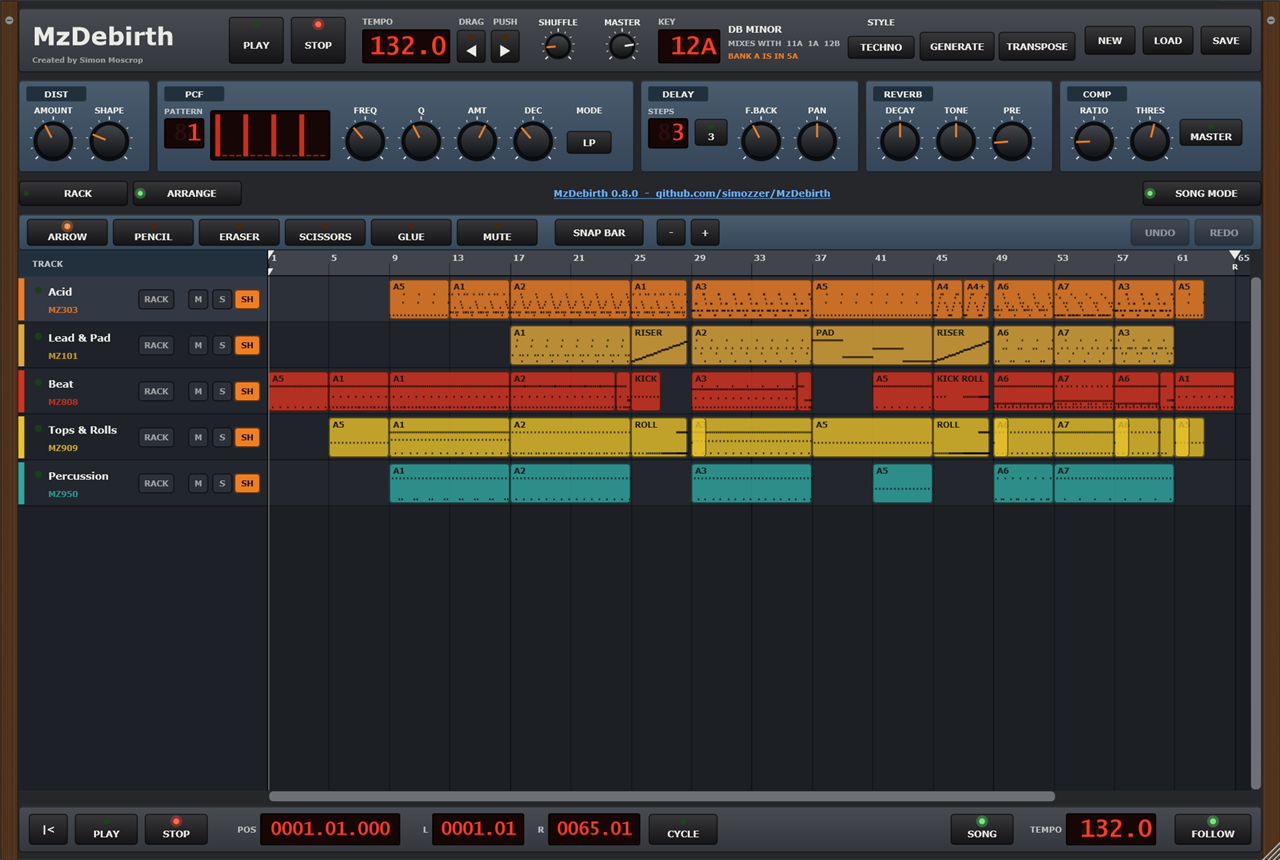
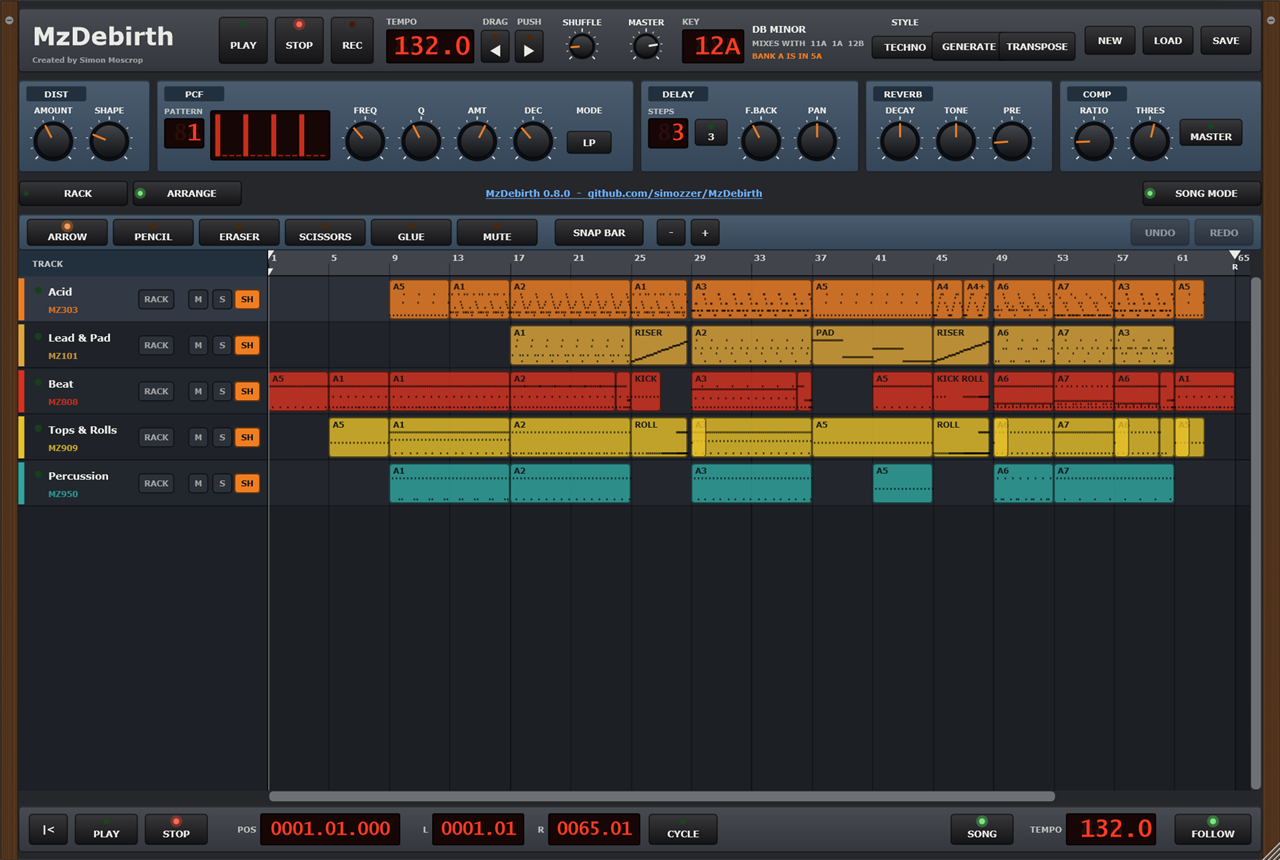
README: recording a song in its own section, and new screenshots
The take, patterns played over the song, and overdubbing together under
"Recording a song"; REC, STOP and the song position in Getting started;
the Arrange transport's STOP and REC; what the check covers. The
screenshots show REC, the song position and each machine's STOP.

Changed region(s): [[0.1562, 0.0, 0.7812, 0.0907], [0.375, 0.2116, 0.6562, 0.2419]]

diff --git a/README.md b/README.md
@@ -4,7 +4,8 @@ A rack of the Mz synths, played from a step sequencer, in the spirit of the old 
 RB-338: five machines, each with its own panel, its own patterns and a channel on the mixer,
 all on one clock, with ReBirth's effects units and a reverb along the top. And beside the
 rack, an [Arrange window](#the-arrange-window) after Cubase on the Atari ST, to lay the
-patterns out as a song and write parts of any length.
+patterns out as a song and write parts of any length - or [record](#recording-a-song) the
+rack into it as you play, as ReBirth did.
 
 ![The rack: the transport and KEY section; the DIST, PCF, DELAY, REVERB and COMP units; the RACK and ARRANGE tabs and the link to the project page; the Mz303 and the Mz101, each with its pattern section and mixer strip](docs/img/rack.png)
 
@@ -52,10 +53,11 @@ but not yet tried on a real one. If something doesn't work, please
 - **The window**: drag it wider and everything grows with it; drag it taller (from 800
   pixels) and you see more of the rack at once, or more of the song. It opens at the size
   it was left.
-- **PLAY**, or the space bar. A new rack opens on the **demo song** - an acid rave tune made
-  from the factory grooves, two minutes of intro, builds, drops and a breakdown - in the
-  Arrange window. Turn **SONG MODE** off and every machine plays its own pattern, A1 to
-  start with.
+- **PLAY**, or the space bar, plays and **STOP** stops. A new rack opens on the **demo
+  song** - an acid rave tune made from the factory grooves, two minutes of intro, builds,
+  drops and a breakdown - in the Arrange window. Turn **SONG MODE** off and every machine
+  plays its own pattern, A1 to start with. **REC**, beside them, records the rack into the
+  song - see [Recording a song](#recording-a-song).
 - Pick another pattern on each machine's **PATTERN** pads - bank A to D, then 1 to 8. Picked
   while playing, it blinks, and starts when the pattern playing comes round. The factory
   banks are written so that pattern *n* of every machine plays with pattern *n* of the others:
@@ -73,6 +75,8 @@ but not yet tried on a real one. If something doesn't work, please
   `.mzdebirth` files. The app also remembers where it was left.
 - **RACK** and **ARRANGE** (or F1 and F2), under the effects, switch between the rack and
   the Arrange window, where the patterns become a song - see below.
+- In the rack, the display beside **SONG MODE** shows where the song is, in bars, beats and
+  ticks: where it's playing, how far a recording has got, or the cursor.
 - The link between the tabs shows the version you have; click it for the project page,
   where the next version, what's new in it and the issue tracker are.
 
@@ -98,7 +102,8 @@ the 101's both the lead and the risers and pad, which take turns.
   PLAY in the Arrange window turns it on.
 - **Getting started:** right-click a track's lane and *Insert a pattern* from the rack. It
   becomes a part that plays exactly as the pattern did - slides, accents, ties and shuffle
-  and all - so the factory grooves, GENERATE and TRANSPOSE all feed the song.
+  and all - so the factory grooves, GENERATE and TRANSPOSE all feed the song. Or play the
+  rack into the song live - see [Recording a song](#recording-a-song).
 - **The toolbox** is along the top, and on the right mouse button as on the ST:
   - **ARROW** picks, moves (to another track of the same kind too), copies with Alt-drag, and
     resizes by the right edge. As with a clip in Ableton Live, a part dragged longer repeats
@@ -117,10 +122,11 @@ the 101's both the lead and the risers and pad, which take turns.
 - **The ruler:** click to move the cursor (and the song, while it plays). Drag the **L** and
   **R** flags for the locators, or shift-drag to set both. Double-click to turn the cycle
   on or off.
-- **The transport** along the bottom: back to the start, PLAY from the cursor, STOP, the
-  position in bars, beats and ticks, the locators, CYCLE and FOLLOW. The ST's numeric
-  keypad works as it did: **Enter** plays, **0** stops, **.** goes back to the start, and
-  **/** turns the cycle on and off.
+- **The transport** along the bottom: back to the start, PLAY from the cursor, STOP (which
+  leaves the cursor where the song stopped), the position in bars, beats and ticks, the
+  locators, CYCLE and FOLLOW. The ST's numeric keypad works as it did: **Enter** plays,
+  **0** stops, **.** goes back to the start, and **/** turns the cycle on and off. With
+  **REC** on in the transport at the top, PLAY here records a take.
 - **Ctrl+Z** undoes any edit to the song and **Ctrl+Y** redoes it. **Ctrl+C** and
   **Ctrl+V** copy parts and paste them at the cursor, **Delete** deletes them, and
   **Ctrl+A** picks every part.
@@ -180,32 +186,44 @@ nothing more - its delay and reverb ringing on. It stays lit while stopped. To b
 pick a pattern on its pads: it comes in again at the start of the next bar, from the top of
 that pattern. It works in SONG mode as well, where a stopped machine's notes go by unplayed.
 
-While the song plays, a pattern picked on a machine takes that machine over from its track at
-the next bar and plays from the top, and the song's notes for it go by. Click the lit pattern
-again to hand the machine back to the song at the next bar. STOP lets any patterns go, so the
-next PLAY plays the song as written.
+![The Mz808 and the Mz909, each with its pattern section and mixer strip: pan, the DELAY and REVERB sends, the inserts, the fader and its meter](docs/img/drum-machines.png)
 
-### Recording into the song
+## Recording a song
 
-A song is recorded as it was in ReBirth, by playing the rack live:
+A song is made as it was in ReBirth, by playing the rack live: its patterns go into the
+Arrange window as you pick them. Each stretch of one pattern on a machine becomes a part
+named after it (A1, B3 and so on), so the song shows what you played and when. A pattern
+picked always comes in on the next bar. Knob tweaks aren't recorded.
+
+### A take
+
+A take records every machine, from the cursor:
 
 1. Put the Arrange window's cursor where the take should go. It starts on that bar, or on
    the next if the cursor is part way through one.
 2. Press **REC** in the transport at the top (it blinks), then **PLAY** in either transport,
-   or the space bar. Every machine plays its patterns from the top. The take appears in
-   the Arrange window as it is played, and in the rack the position beside SONG MODE shows
-   how far it has got.
-3. Pick patterns, STOP machines and bring them back as you go. A pattern picked comes in on
-   the next bar, as it always does.
+   or the space bar. Every machine plays its patterns from the top.
+3. Pick patterns, STOP machines and bring them back as you go. The take appears in the
+   Arrange window as you play, and in the rack the display beside SONG MODE shows how far it
+   has got.
 4. Press **STOP** to end the take, or **REC** again to end it and keep playing.
 
-Each stretch of one pattern becomes a part named after it, so the song shows what you played
-and when. A STOPped machine leaves its bars empty. The take records over every track for the
-bars it ran, including the bar it stopped in. One **Ctrl+Z** takes the whole take back.
-Recorded from SONG mode, the rack goes back to SONG mode when the take is over, so PLAY plays
-the song with the take in it. Knob tweaks aren't recorded.
+The take records over every track for the bars it ran, including the bar it stopped in, and
+a STOPped machine leaves its bars empty. Recorded from SONG mode, the rack goes back to SONG
+mode when the take is over, so PLAY plays the song with the take in it. One **Ctrl+Z** takes
+the whole take back.
 
-**Overdubbing** records over a song while it plays:
+### Playing patterns over the song
+
+While the song plays, a pattern picked on a machine takes that machine over from its track
+at the next bar and plays from the top, and the song's notes for it go by. Its pads stay
+dark while the machine follows the song, and light when a pattern has it. Click the lit
+pattern again to hand the machine back to the song at the next bar. STOP lets every pattern
+go, so the next PLAY plays the song as written.
+
+### Overdubbing
+
+An overdub records those patterns into the song as it plays:
 
 1. With the song playing, press **REC**. It lights, and the song plays on as before.
 2. Pick a pattern on any machine. It takes that machine over at the next bar, and from that
@@ -215,9 +233,8 @@ the song with the take in it. Knob tweaks aren't recorded.
    until then), and the overdub ends there.
 
 Only the bars each machine played are recorded over. Machines you didn't touch, and the rest
-of the song, stay as they were. One **Ctrl+Z** takes the whole overdub back.
-
-![The Mz808 and the Mz909, each with its pattern section and mixer strip: pan, the DELAY and REVERB sends, the inserts, the fader and its meter](docs/img/drum-machines.png)
+of the song, stay as they were. STOP ends an overdub too, and one **Ctrl+Z** takes the whole
+of it back.
 
 ## Effects and the mixer
 
@@ -284,11 +301,12 @@ then
 The check (`Tests/SeqCheck.cpp`) holds the sequencer to its timing, slides and pattern
 changes, checks each effect and every factory groove, generates in all 24 keys, and plays
 each machine, before the app is built round it. It also holds the song to its sample: every
-factory groove made into parts must play bit for bit as its patterns do, and the cycle,
-STOP, a take recorded from the rack, undo, and a song edited while it plays are each checked. The demo song is played
-through and held to its shape: drops louder than the intro and the breakdown, and a beat of
-near silence before each. It links no JUCE. Without the disks it skips
-the Mz950's checks and says so; `-Release` will not go on without them.
+factory groove made into parts must play bit for bit as its patterns do. The cycle, STOP,
+undo, a song edited while it plays, a part stretched to loop, a pattern played over the
+song, a take and an overdub are each checked. The demo song is played through and held to
+its shape: drops louder than the intro and the breakdown, and a beat of near silence before
+each. It links no JUCE. Without the disks it skips the Mz950's checks and says so;
+`-Release` will not go on without them.
 
 Pushing a version tag (`git push origin v0.3.0`) builds the installer and zip on GitHub -
 disks and all - and attaches them to a draft release, with the notes in
@@ -305,7 +323,7 @@ cmake.
 
     Source/Core         the clock, patterns, machines, effects, mixer, keys and grooves - no JUCE
                         Song.* and SongPlayer.h: the song, and how the audio thread plays it;
-                        DemoSong.*: the demo song
+                        Recorder.*: takes and overdubs; DemoSong.*: the demo song
     Source/UI           the panels
     Source/UI/Arrange   the Arrange window, and KEY EDIT and DRUM EDIT
     Source/Processor.*  the rack as a JUCE processor, and its saved state
